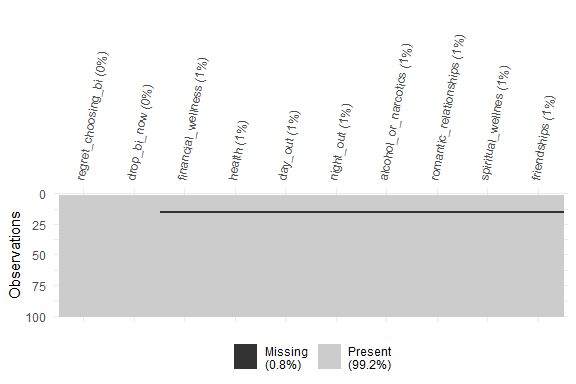
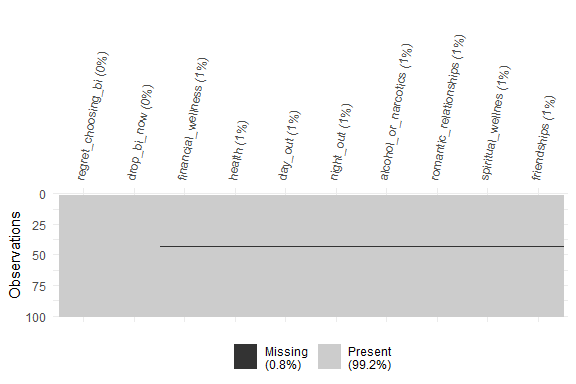
rmd complete

Changed region(s): [[0.2812, 0.5312, 0.9688, 0.5625]]

diff --git a/markdown/Lab3-Submission-DataImputation.md b/markdown/Lab3-Submission-DataImputation.md
@@ -7,9 +7,10 @@ Business Intelligence Lab Submission Markdown
 - [Setup Chunk](#setup-chunk)
 - [Load dataset](#load-dataset)
   - [Select features](#select-features)
-- [TABULAR OUTPUT](#tabular-output)
-  - [DECORATED TABULAR OUTPUT](#decorated-tabular-output)
-  - [VISUAL BAR CHART](#visual-bar-chart)
+- [Create new variable](#create-new-variable)
+  - [Strip plot visualization](#strip-plot-visualization)
+  - [Create impute data and carry out
+    confirmations](#create-impute-data-and-carry-out-confirmations)
 
 # Student Details
 
@@ -237,7 +238,7 @@ miss_case_summary(student_performance_dataset)
     ## # A tibble: 100 × 3
     ##     case n_miss pct_miss
     ##    <int>  <int>    <dbl>
-    ##  1    14      8       80
+    ##  1    42      8       80
     ##  2     1      0        0
     ##  3     2      0        0
     ##  4     3      0        0
@@ -270,18 +271,192 @@ gg_miss_upset(student_performance_dataset)
 
 ![](Lab3-Submission-DataImputation_files/figure-gfm/Confirm%20missingness-3.png)<!-- -->
 
-# TABULAR OUTPUT
+# Create new variable
 
-Tabular output of the evaluation per group per gender of the average
-level of learning attained rating.
+We created a new variable MAP
 
-## DECORATED TABULAR OUTPUT
+``` r
+# New variable MAP
+student_performance_dataset <- student_performance_dataset %>%
+    mutate(day_out = as.numeric(day_out), health = as.numeric(health), MAP = day_out +
+        (1/3) * (health - day_out))
 
-A decorated tabular.
+somewhat_correlated_variables <- quickpred(student_performance_dataset, mincor = 0.4)
 
-## VISUAL BAR CHART
+student_performance_dataset_mice <- mice(student_performance_dataset, m = 5, method = "pmm",
+    seed = 4, predictorMatrix = somewhat_correlated_variables)
+```
 
-A visual bar chart.
+    ## 
+    ##  iter imp variable
+    ##   1   1  financial_wellness  health  day_out  night_out  alcohol_or_narcotics  romantic_relationships  spiritual_wellnes  friendships  MAP
+    ##   1   2  financial_wellness  health  day_out  night_out  alcohol_or_narcotics  romantic_relationships  spiritual_wellnes  friendships  MAP
+    ##   1   3  financial_wellness  health  day_out  night_out  alcohol_or_narcotics  romantic_relationships  spiritual_wellnes  friendships  MAP
+    ##   1   4  financial_wellness  health  day_out  night_out  alcohol_or_narcotics  romantic_relationships  spiritual_wellnes  friendships  MAP
+    ##   1   5  financial_wellness  health  day_out  night_out  alcohol_or_narcotics  romantic_relationships  spiritual_wellnes  friendships  MAP
+    ##   2   1  financial_wellness  health  day_out  night_out  alcohol_or_narcotics  romantic_relationships  spiritual_wellnes  friendships  MAP
+    ##   2   2  financial_wellness  health  day_out  night_out  alcohol_or_narcotics  romantic_relationships  spiritual_wellnes  friendships  MAP
+    ##   2   3  financial_wellness  health  day_out  night_out  alcohol_or_narcotics  romantic_relationships  spiritual_wellnes  friendships  MAP
+    ##   2   4  financial_wellness  health  day_out  night_out  alcohol_or_narcotics  romantic_relationships  spiritual_wellnes  friendships  MAP
+    ##   2   5  financial_wellness  health  day_out  night_out  alcohol_or_narcotics  romantic_relationships  spiritual_wellnes  friendships  MAP
+    ##   3   1  financial_wellness  health  day_out  night_out  alcohol_or_narcotics  romantic_relationships  spiritual_wellnes  friendships  MAP
+    ##   3   2  financial_wellness  health  day_out  night_out  alcohol_or_narcotics  romantic_relationships  spiritual_wellnes  friendships  MAP
+    ##   3   3  financial_wellness  health  day_out  night_out  alcohol_or_narcotics  romantic_relationships  spiritual_wellnes  friendships  MAP
+    ##   3   4  financial_wellness  health  day_out  night_out  alcohol_or_narcotics  romantic_relationships  spiritual_wellnes  friendships  MAP
+    ##   3   5  financial_wellness  health  day_out  night_out  alcohol_or_narcotics  romantic_relationships  spiritual_wellnes  friendships  MAP
+    ##   4   1  financial_wellness  health  day_out  night_out  alcohol_or_narcotics  romantic_relationships  spiritual_wellnes  friendships  MAP
+    ##   4   2  financial_wellness  health  day_out  night_out  alcohol_or_narcotics  romantic_relationships  spiritual_wellnes  friendships  MAP
+    ##   4   3  financial_wellness  health  day_out  night_out  alcohol_or_narcotics  romantic_relationships  spiritual_wellnes  friendships  MAP
+    ##   4   4  financial_wellness  health  day_out  night_out  alcohol_or_narcotics  romantic_relationships  spiritual_wellnes  friendships  MAP
+    ##   4   5  financial_wellness  health  day_out  night_out  alcohol_or_narcotics  romantic_relationships  spiritual_wellnes  friendships  MAP
+    ##   5   1  financial_wellness  health  day_out  night_out  alcohol_or_narcotics  romantic_relationships  spiritual_wellnes  friendships  MAP
+    ##   5   2  financial_wellness  health  day_out  night_out  alcohol_or_narcotics  romantic_relationships  spiritual_wellnes  friendships  MAP
+    ##   5   3  financial_wellness  health  day_out  night_out  alcohol_or_narcotics  romantic_relationships  spiritual_wellnes  friendships  MAP
+    ##   5   4  financial_wellness  health  day_out  night_out  alcohol_or_narcotics  romantic_relationships  spiritual_wellnes  friendships  MAP
+    ##   5   5  financial_wellness  health  day_out  night_out  alcohol_or_narcotics  romantic_relationships  spiritual_wellnes  friendships  MAP
+
+## Strip plot visualization
+
+``` r
+# strip plot visualiziation
+stripplot(student_performance_dataset_mice, MAP ~ health | .imp, pch = 20, cex = 1)
+```
+
+![](Lab3-Submission-DataImputation_files/figure-gfm/Stripplot-1.png)<!-- -->
+
+``` r
+stripplot(student_performance_dataset_mice, MAP ~ night_out | .imp, pch = 20, cex = 1)
+```
+
+![](Lab3-Submission-DataImputation_files/figure-gfm/Stripplot-2.png)<!-- -->
+
+## Create impute data and carry out confirmations
+
+``` r
+# create imputed data
+student_performance_dataset_imputed <- mice::complete(student_performance_dataset_mice,
+    1)
+
+# confirmation
+miss_var_summary(student_performance_dataset_imputed)
+```
+
+    ## # A tibble: 11 × 3
+    ##    variable               n_miss pct_miss
+    ##    <chr>                   <int>    <dbl>
+    ##  1 regret_choosing_bi          0        0
+    ##  2 drop_bi_now                 0        0
+    ##  3 financial_wellness          0        0
+    ##  4 health                      0        0
+    ##  5 day_out                     0        0
+    ##  6 night_out                   0        0
+    ##  7 alcohol_or_narcotics        0        0
+    ##  8 romantic_relationships      0        0
+    ##  9 spiritual_wellnes           0        0
+    ## 10 friendships                 0        0
+    ## 11 MAP                         0        0
+
+``` r
+# visual confirmation
+Amelia::missmap(student_performance_dataset_imputed)
+```
+
+![](Lab3-Submission-DataImputation_files/figure-gfm/Create%20impute-1.png)<!-- -->
+
+``` r
+# Are there missing values in the dataset?
+any_na(student_performance_dataset_imputed)
+```
+
+    ## [1] FALSE
+
+``` r
+# How many?
+
+n_miss(student_performance_dataset_imputed)
+```
+
+    ## [1] 0
+
+``` r
+# What is the percentage of missing data in the entire dataset?
+prop_miss(student_performance_dataset_imputed)
+```
+
+    ## [1] 0
+
+``` r
+# How many missing values does each variable have?
+student_performance_dataset_imputed %>%
+    is.na() %>%
+    colSums()
+```
+
+    ##     regret_choosing_bi            drop_bi_now     financial_wellness 
+    ##                      0                      0                      0 
+    ##                 health                day_out              night_out 
+    ##                      0                      0                      0 
+    ##   alcohol_or_narcotics romantic_relationships      spiritual_wellnes 
+    ##                      0                      0                      0 
+    ##            friendships                    MAP 
+    ##                      0                      0
+
+``` r
+# What is the number and percentage of missing values grouped by each variable?
+miss_var_summary(student_performance_dataset_imputed)
+```
+
+    ## # A tibble: 11 × 3
+    ##    variable               n_miss pct_miss
+    ##    <chr>                   <int>    <dbl>
+    ##  1 regret_choosing_bi          0        0
+    ##  2 drop_bi_now                 0        0
+    ##  3 financial_wellness          0        0
+    ##  4 health                      0        0
+    ##  5 day_out                     0        0
+    ##  6 night_out                   0        0
+    ##  7 alcohol_or_narcotics        0        0
+    ##  8 romantic_relationships      0        0
+    ##  9 spiritual_wellnes           0        0
+    ## 10 friendships                 0        0
+    ## 11 MAP                         0        0
+
+``` r
+# What is the number and percentage of missing values grouped by each
+# observation?
+miss_case_summary(student_performance_dataset_imputed)
+```
+
+    ## # A tibble: 100 × 3
+    ##     case n_miss pct_miss
+    ##    <int>  <int>    <dbl>
+    ##  1     1      0        0
+    ##  2     2      0        0
+    ##  3     3      0        0
+    ##  4     4      0        0
+    ##  5     5      0        0
+    ##  6     6      0        0
+    ##  7     7      0        0
+    ##  8     8      0        0
+    ##  9     9      0        0
+    ## 10    10      0        0
+    ## # ℹ 90 more rows
+
+``` r
+# Which variables contain the most missing values?
+gg_miss_var(student_performance_dataset_imputed)
+```
+
+![](Lab3-Submission-DataImputation_files/figure-gfm/Create%20impute-2.png)<!-- -->
+
+``` r
+# We require the 'ggplot2' package to create more appealing visualizations
+
+# Where are missing values located (the shaded regions in the plot)?
+vis_miss(student_performance_dataset_imputed) + theme(axis.text.x = element_text(angle = 80))
+```
+
+![](Lab3-Submission-DataImputation_files/figure-gfm/Create%20impute-3.png)<!-- -->
 
 **etc.** as per the lab submission requirements. Be neat and communicate
 in a clear and logical manner.
